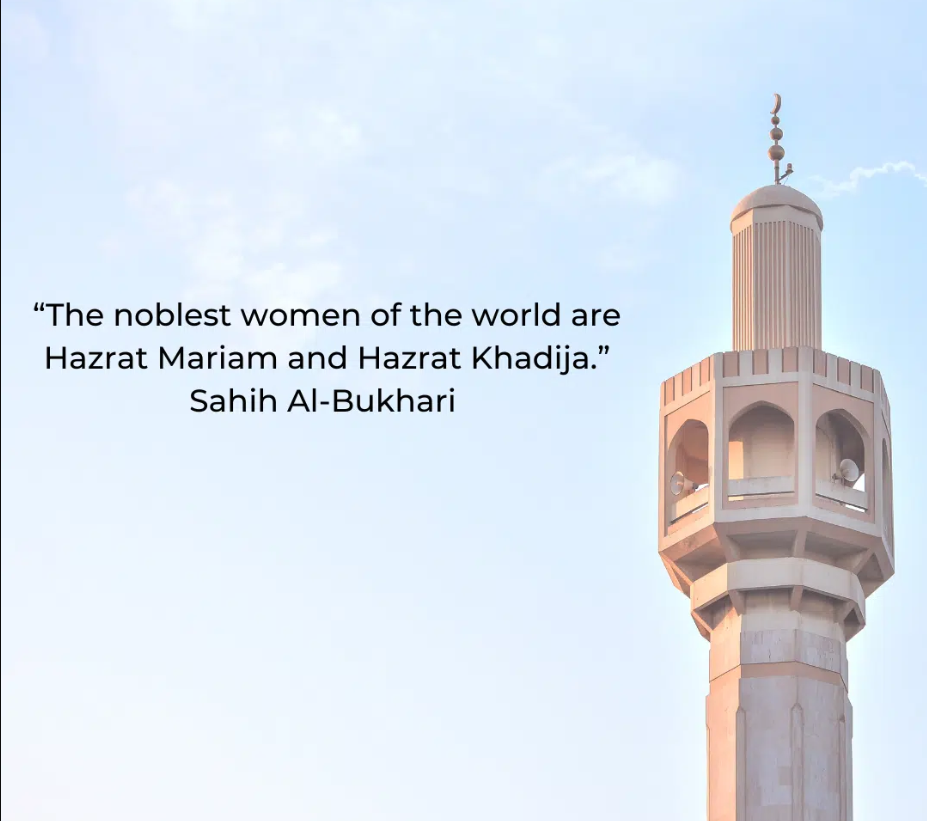
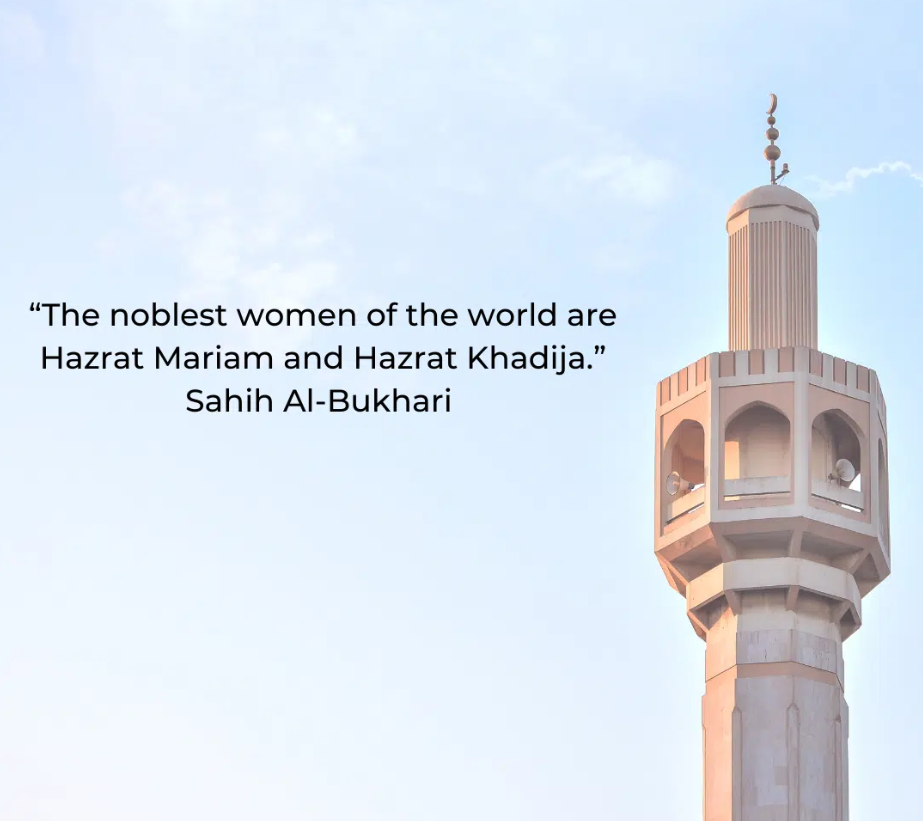
added

diff --git a/CSS/styles.css b/CSS/styles.css
@@ -7,6 +7,12 @@ body {
     background-image: linear-gradient(to left, #c79b0ba3, #ffac1c); /* Red to Black gradient */
     color: #333;
 }
+body {
+    -webkit-user-select: none; /* Safari */
+    -moz-user-select: none;    /* Firefox */
+    -ms-user-select: none;     /* Internet Explorer/Edge */
+    user-select: none;         /* Non-prefixed version, currently supported by Chrome, Edge, Opera and Firefox */
+}
 
 a {
     color: #007bff;
@@ -22,7 +28,7 @@ a:hover {
 /* Splash Screen */
 #splash {
     height: 100vh;
-    background-image: url('images/splash 1.jpg'); /* Replace with your splash screen image */
+    background-image: url('images/splash 1.jpg'); 
     background-size: cover;
     background-position: center;
     display: flex;
@@ -61,15 +67,17 @@ a:hover {
 }
 
 .navbar-nav .nav-link {
-    color: black;
     font-weight: bold;
-    transition: all 0.3s ease;
+    transform:scale(1.3s);
+    transition: all 2.3s ease-in-out;
 }
 
 .navbar-nav .nav-link:hover {
-    color: #0098c3;
+    background-color: #0099c351;
+    justify-content: space-between;
+    padding: auto;
     padding-left: 5px;
-    transition: all 0.3s ease;
+    transition: all 1.3s ease;
     transform: scale(1.1);
 }
 
@@ -161,16 +169,13 @@ a:hover {
 .image-div {
     width: 100%; 
     height: 200px;
-    border-top:rgba(0, 0, 0, 0.548) 2px solid ;
-    border-left:rgba(0, 0, 0, 0.548) 2px solid ;
-    border-right:rgba(0, 0, 0, 0.548) 2px solid ;
     box-shadow: 0 0 10px rgba(0, 0, 0, 0.1); 
 }
 
 .image-div img {
-    width: 105%; /* Full width inside container */
-    height: 105%; /* Full height inside container */
-    object-fit: cover; /* Maintain aspect ratio */
+    width: 105%; 
+    height: 105%;
+    object-fit: cover;
 }
 
 /* Zoom Effect */
@@ -321,9 +326,7 @@ a:hover {
     padding: 10px; 
     color: white;
     background-color: #FFFFFF; 
-    border-bottom:rgba(0, 0, 0, 0.548) 2px solid ;
-    border-left:rgba(0, 0, 0, 0.548) 2px solid ;
-    border-right:rgba(0, 0, 0, 0.548) 2px solid ;    box-shadow: 0 0 10px rgba(0, 0, 0, 0.1); 
+    box-shadow: 0 0 10px rgba(0, 0, 0, 0.1); 
 }
 
 .text-div h2 {
@@ -411,7 +414,12 @@ a:hover {
     flex-wrap: wrap;
     justify-content: space-around;
     align-items: flex-end;
-    border-bottom: #00000082 2px solid;
-    padding-top: 50px;
-    padding: 75px 15px;
+    border-bottom: #00000082 1px solid;
+    padding: 45px 15px;
+}
+.container1{
+    justify-content: space-around;
+    flex-wrap: wrap;
+    display: flex;
+    align-items: flex-end;
 }

diff --git a/index.html b/index.html
@@ -20,13 +20,13 @@
         </button>
         <div class="collapse navbar-collapse" id="navbarNav">
             <ul class="navbar-nav ml-auto">
-                <li class="nav-item">
+                <li class="nav-item" style="margin-right: 9px;">
                     <a class="nav-link" href="https://www.facebook.com/profile.php?id=100064027953689&mibextid=ZbWKwL" target="_blank"><i class="fab fa-facebook"></i></a>
                 </li>
-                <li class="nav-item">
+                <li class="nav-item" style="margin-right: 9px;">
                     <a class="nav-link" href="#about">About Us</a>
                 </li>
-                <li class="nav-item">
+                <li class="nav-item" style="margin-right: 9px;">
                     <a class="nav-link" href="#courses">Courses</a>
                 </li>
                 <li class="nav-item" style="margin-right: 45px;">
@@ -75,7 +75,7 @@
 
     <!-- Courses Section -->
     <section id="courses" class="content-section">
-        <h1 style="text-align: center; margin-top: 100px;">Courses</h1>
+        <h1 style="text-align: center; margin-top: 50px;">Courses</h1>
         <div class="container">
             <!-- Div 1: Quran Recitation -->
             <div class="custom-div course fade-up" style="margin-top: 0%;">
@@ -217,6 +217,29 @@
         </div>
     </div>
 </footer>
+
+<script>
+    document.addEventListener('contextmenu', event => event.preventDefault());
+</script>
+<script>
+    document.onkeydown = function(e) {
+        if(e.keyCode == 123) { // F12 key
+            return false;
+        }
+        if(e.ctrlKey && e.shiftKey && e.keyCode == 'I'.charCodeAt(0)) { // Ctrl+Shift+I
+            return false;
+        }
+        if(e.ctrlKey && e.shiftKey && e.keyCode == 'C'.charCodeAt(0)) { // Ctrl+Shift+C
+            return false;
+        }
+        if(e.ctrlKey && e.shiftKey && e.keyCode == 'J'.charCodeAt(0)) { // Ctrl+Shift+J
+            return false;
+        }
+        if(e.ctrlKey && e.keyCode == 'U'.charCodeAt(0)) { // Ctrl+U
+            return false;
+        }
+    }
+</script>
 
 
 
